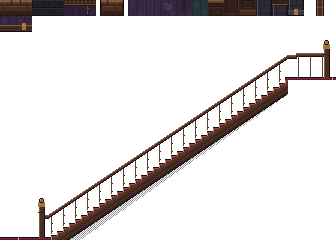
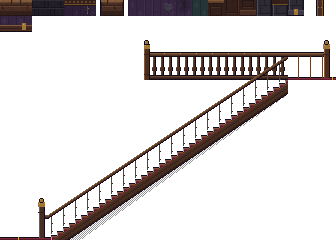
art(tiles): gallery rail across the upper-floor stair opening (stair_gallery_rail [9,2,6,3])

Changed region(s): [[0.4167, 0.1458, 0.9524, 0.35]]

diff --git a/docs/DESIGN.md b/docs/DESIGN.md
@@ -89,7 +89,7 @@ Numbers used (from LEVELGEN on `development`): **tile = 16 px**; a floor band is
 Suggested band dressing (rows 0–8 above the slab): row 0 `ceiling_trim`, rows 1–5 wallpaper, row 6 `wainscot_rail`, row 7 `wainscot_panel`, row 8 `wainscot_skirting`, row 9 `floor_top` (slab; `floor_fill` for the top-floor ceiling / solid fill). Room dividers: `wall_column` with `wall_column_top` in row 0; at a doorway put `door_lintel` in row 5, leave rows 6–8 open and overlay `door_post_left`/`door_post_right` on the tiles either side (`door_head_side`/`door_head_mid` for a wider opening). Where a stair opening cuts the upper slab, end the slab with `slab_end_left`/`slab_end_right`. Mock: `/workspace/qm-style-target/stage1_mock.png` (3 floors, 640×496 at 1×; not in the repo).
 
 ### `tiles_stage1` atlas (`art/tiles/tiles_stage1.png`, 336×240, 16 px tiles, 21 columns × 15 rows, index = row·21 + col)
-Manifest fields: `tile_size`, `columns`, `rows`, `tile_names` (one name per index), and the stair pieces as `[col, row, w, h]` in atlas tiles: `stair_block`, `stair_stamp`, `landing_bottom`, `landing_top`, `stair_rail_cap` (plus `stair_width_tiles = 21`, `stair_diagonal_tiles = 15`, `stair_landing_tiles = 3`). No `frames` (not an animation). Template: `assets/replace_me/tiles_stage1_template.png` (magenta grid; cyan = stair stamp, orange = landings, violet = rail cap; green dotted = upper/lower floor surfaces; yellow dotted = the Stair.bottom→top line).
+Manifest fields: `tile_size`, `columns`, `rows`, `tile_names` (one name per index), and the stair pieces as `[col, row, w, h]` in atlas tiles: `stair_block`, `stair_stamp`, `landing_bottom`, `landing_top`, `stair_rail_cap`, `stair_gallery_rail` (plus `stair_width_tiles = 21`, `stair_diagonal_tiles = 15`, `stair_landing_tiles = 3`). No `frames` (not an animation). Template: `assets/replace_me/tiles_stage1_template.png` (magenta grid; cyan = stair stamp, orange = landings, violet = rail cap, red = gallery rail; green dotted = upper/lower floor surfaces; yellow dotted = the Stair.bottom→top line).
 
 Single tiles (rows 0–1; indices unchanged from the 8-column atlas):
 
@@ -104,16 +104,17 @@ Single tiles (rows 0–1; indices unchanged from the 8-column atlas):
 | 6 | slab_end_left | 14 | wainscot_panel | 22 | door_head_mid |
 | 7 | slab_end_right | 15 | wainscot_skirting | 23 | empty |
 
-Indices 24–41 are `empty`. Rows 2–14 hold the **stair block**: one 21×13-tile picture of a whole stair rising to the **right**, laid out exactly as it is placed in the level (block row 3 = the upper floor's slab row; block top 3 rows = upper band rows 6–8; block bottom edge = lower floor surface). It is cut into four separate pieces so the generator can place them (names are `<piece>_r<row>_c<col>`, row/col within the piece; every other tile in the block is `empty`):
+Indices 24–41 are `empty`. Rows 2–14 hold the **stair block**: one 21×13-tile picture of a whole stair rising to the **right**, laid out exactly as it is placed in the level (block row 3 = the upper floor's slab row; block top 3 rows = upper band rows 6–8; block bottom edge = lower floor surface). It is cut into five separate pieces so the generator can place them (names are `<piece>_r<row>_c<col>`, row/col within the piece; every other tile in the block is `empty`):
 
 | Piece | `[col, row, w, h]` (atlas) | Indices | Placement (stair x = leftmost tile of the whole stair, rising right) |
 |---|---|---|---|
 | `landing_bottom` | [0, 12, 3, 3] | 252–254, 273–275, 294–296 | tiles x+0…x+2, lower band rows 6–8 (bottom edge = lower floor surface): flat carpet runner + bottom newel post. Walk it like floor. |
 | `stair_stamp` | [3, 5, 15, 10] | 108–122 … 297–311 (row r: (5+r)·21+3 … +17) | tiles x+3…x+17; top row in the upper floor's slab row, bottom edge on the lower floor surface. 40 steps of 6 px run × 4 px rise (≈34°), carpet with brass rods, stringer, banister. |
-| `stair_rail_cap` | [15, 3, 3, 2] | 78–80, 99–101 | tiles x+15…x+17, upper band rows 7–8 (directly above the stamp's last 3 columns): the banister where it climbs above the upper floor. |
+| `stair_rail_cap` | [15, 3, 3, 2] | 78–80, 99–101 | tiles x+15…x+17, upper band rows 7–8 (directly above the stamp's last 3 columns): the banister where it climbs above the upper floor, plus the gallery rail's last 3 tiles (handrail, balusters, shoe rail) joining the landing rail. |
+| `stair_gallery_rail` (`gallery_rail_r*_c*`) | [9, 2, 6, 3] | 51–56, 72–77, 93–98 | tiles x+9…x+14, upper band rows 6–8 (bottom edge = upper floor surface), over the slab opening: level gallery balustrade (handrail, turned balusters every 8 px, shoe rail) with a newel post at the x+9 end; row 0 holds only the newel finial. It continues through `stair_rail_cap` (the sloped banister tucks under its handrail) into the `landing_top` rail, so the visible rail spans x+9…x+17. **Solid** for the boy and walkers, floaters pass through (see collision hint below). |
 | `landing_top` | [18, 2, 3, 3] | 60–62, 81–83, 102–104 | tiles x+18…x+20, upper band rows 6–8 (bottom edge = upper floor surface): level rail, balusters, top newel post, carpet end. Walk it like floor. |
 
-Full stair = **3 + 15 + 3 = 21 tiles (336 px)**. Stair node points: `bottom` = (x+3 tile left edge, lower floor surface), `top` = (x+18 tile left edge, upper floor surface), i.e. 240 px right and 160 px up. The straight bottom→top line runs through the middle of every tread, so `boy_climb_stairs` with pivot **[32, 62]** keeps the planted foot on the steps (checked with a frame overlay: `/workspace/qm-style-target/stair_climb_overlay.png`). Upper slab: keep `floor_top` over the stamp's left 6 columns (x+3…x+8; end it with `slab_end_right` on x+8), open it over x+9…x+17 and paint wallpaper there (and over the lower band's row-0 trim below it) so the stair has headroom. **Stairs rising left:** flip_h every tile and mirror the columns (piece column c goes to x + 20 − c), use `slab_end_left`, bottom/top swap sides. Mock with both directions: `/workspace/qm-style-target/stage1_mock.png` (2× `stage1_mock_2x.png`).
+Full stair = **3 + 15 + 3 = 21 tiles (336 px)**. Stair node points: `bottom` = (x+3 tile left edge, lower floor surface), `top` = (x+18 tile left edge, upper floor surface), i.e. 240 px right and 160 px up. The straight bottom→top line runs through the middle of every tread, so `boy_climb_stairs` with pivot **[32, 62]** keeps the planted foot on the steps (checked with a frame overlay: `/workspace/qm-style-target/stair_climb_overlay.png`). Upper slab: keep `floor_top` over the stamp's left 6 columns (x+3…x+8; end it with `slab_end_right` on x+8), open it over x+9…x+17 and paint wallpaper there (and over the lower band's row-0 trim below it) so the stair has headroom. **Stairs rising left:** flip_h every tile and mirror the columns (piece column c goes to x + 20 − c), use `slab_end_left`, bottom/top swap sides. **Gallery rail collision hint** (px relative to the stair origin = left edge of tile x, y up from the upper floor surface): rising right, solid x ∈ [144, 288), height 28 px (handrail top; the newel finial reaches 40 px at x 144–149). Rising left (c → x+20−c, tiles x+3…x+11): solid x ∈ [48, 192), newel at x 186–191. Preview: `/workspace/qm-style-target/stage1_mock_stair3x.png` (rail lit by a torch at the newel and unlit beyond, 1× inset top-right). Mock with both directions: `/workspace/qm-style-target/stage1_mock.png` (2× `stage1_mock_2x.png`).
 
 `flashlight_blob` (`art/ui/light_blob.png`, 128², centre pivot [64, 64]) now has a template: `assets/replace_me/flashlight_blob_template.png` (centre cross, 1/8–1/2 radius rings). Keep it white with radial alpha; code tints it.
 
